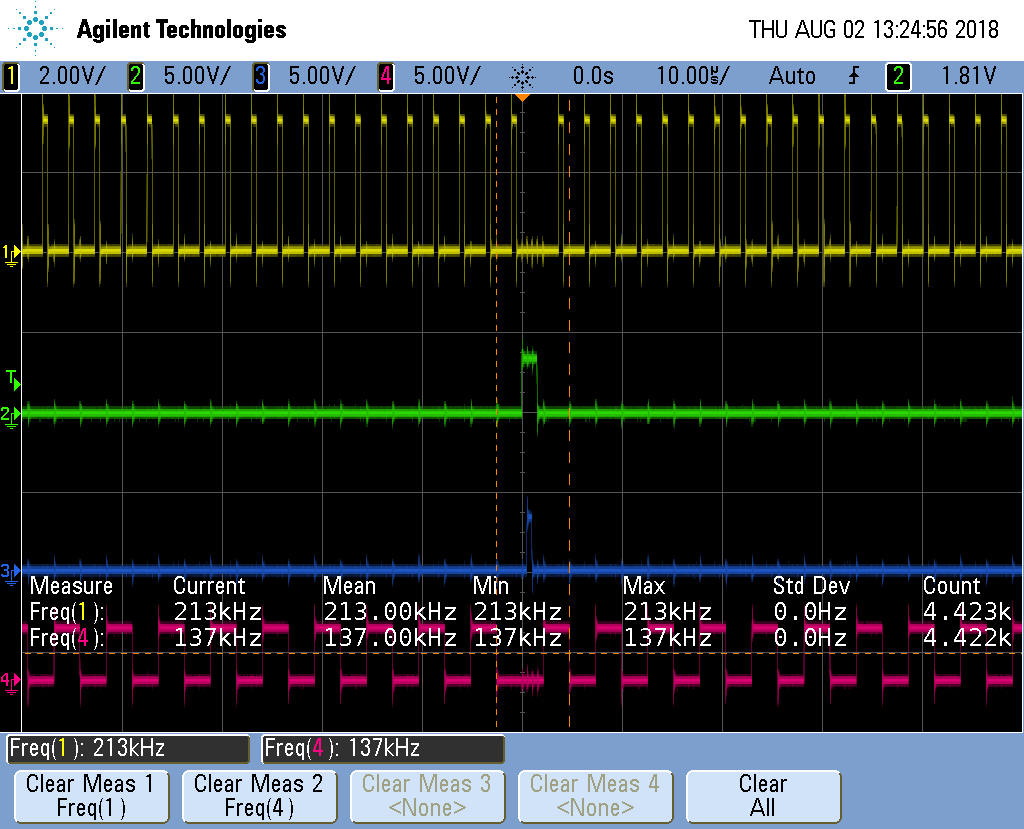
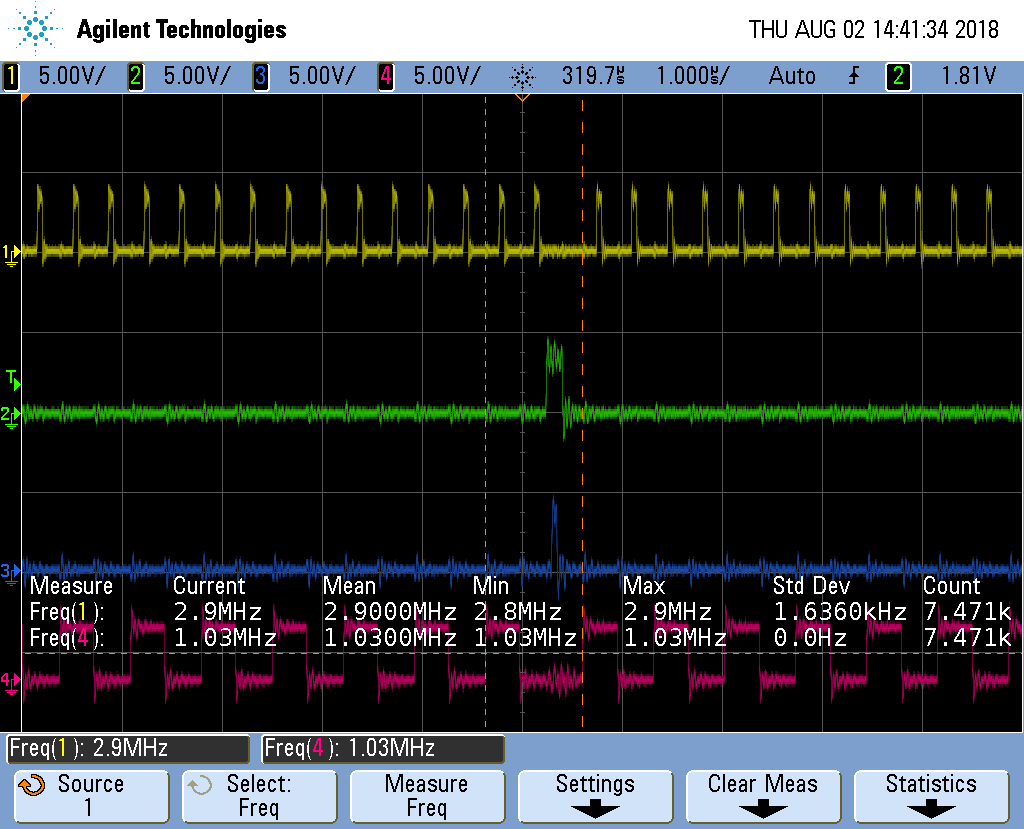
Switched DELAY from 100 to 10.  The clock is now some 10 times faster

diff --git a/docs/05blocks/blocks.html b/docs/05blocks/blocks.html
@@ -5388,7 +5388,7 @@ all at once.  Here&#8217;s where the PRU comes in.</p>
 <span class="preprocessor">#define</span> GPIO_SETDATAOUT     <span class="hex">0x194</span>   <span class="comment">// For setting the GPIO registers</span>
 <span class="preprocessor">#define</span> GPIO_DATAOUT        <span class="hex">0x138</span>   <span class="comment">// For reading the GPIO registers</span>
 
-<span class="preprocessor">#define</span> DELAY <span class="integer">100</span>   <span class="comment">// Number of cycles (5ns each) to wait after a write</span>
+<span class="preprocessor">#define</span> DELAY <span class="integer">10</span>    <span class="comment">// Number of cycles (5ns each) to wait after a write</span>
 
 <span class="directive">volatile</span> <span class="directive">register</span> uint32_t <em>R30;
 <span class="directive">volatile</span> <span class="directive">register</span> uint32_t </em>R31;
@@ -5673,10 +5673,12 @@ six bits (R1, G1, etc.) at a time, so 384/6=64 values need to be clocked in.</p>
 </ul>
 </div>
 <div class="paragraph">
-<p>Using the PRU we are able to run the clock a about 200 KHz.
+<p>Using the PRU we are able to run the clock a about 2.9 MKHz.
 <a href="#blocks_rgb_fpp">FPP waveforms</a> shows the optimized assembler code used by FPP clocks in
-at some 6.3 MHz.  So you can run some 30 times faster if you want to use
-assembly code.</p>
+at some 6.3 MHz.  So the compiler is doing a pretty good job, but you can run
+some two times faster if you want to use assembly code.  In fairness to FPP,
+it&#8217;s having to pull it&#8217;s data out of RAM to display it, so isn&#8217;t not a good
+comparision.</p>
 </div>
 <div id="blocks_rgb_fpp" class="imageblock">
 <div class="content">
@@ -5825,7 +5827,7 @@ rpmsg_core              8537  2 rpmsg_pru,virtio_rpmsg_bus</code></pre>
 </div>
 <div id="footer">
 <div id="footer-text">
-Last updated 2018-08-02 14:26:41 EDT
+Last updated 2018-08-02 14:48:26 EDT
 </div>
 </div>
 </body>

diff --git a/docs/05blocks/code/rgb1.c b/docs/05blocks/code/rgb1.c
@@ -12,7 +12,7 @@
 #define GPIO_SETDATAOUT		0x194	// For setting the GPIO registers
 #define GPIO_DATAOUT		0x138	// For reading the GPIO registers
 
-#define DELAY 100	// Number of cycles (5ns each) to wait after a write
+#define DELAY 10	// Number of cycles (5ns each) to wait after a write
 
 volatile register uint32_t __R30;
 volatile register uint32_t __R31;
